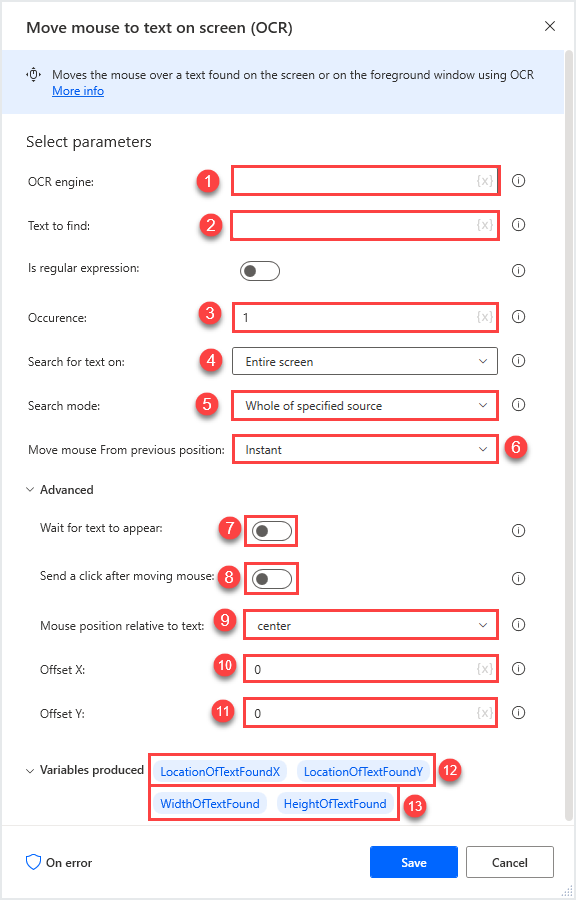
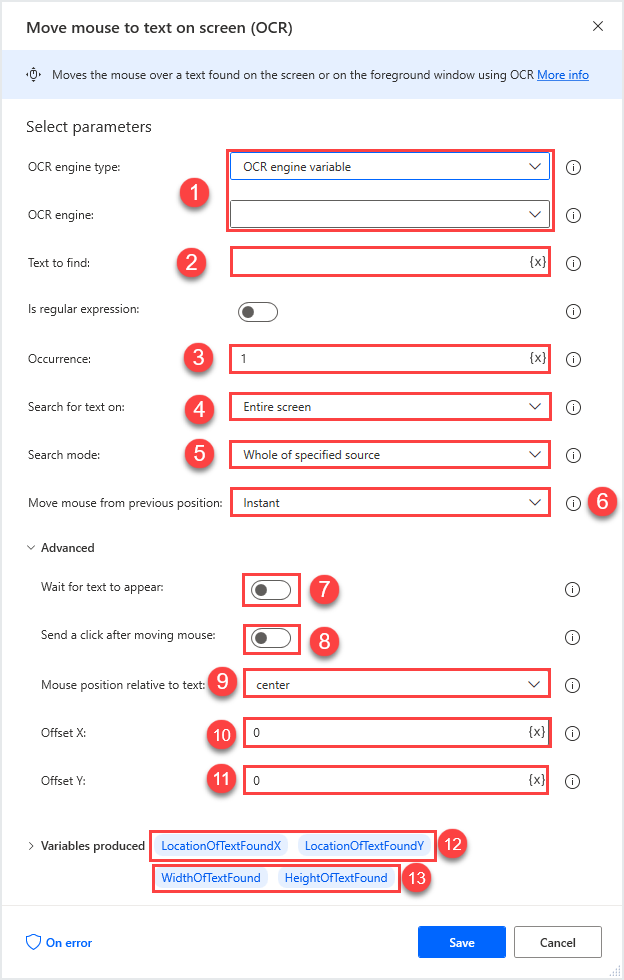
updated ocr section in mouse&keyboard

diff --git a/learn-bizapps-pr/flow/pad-mouse-keyboard/includes/2-mouse-keyboard-actions.md b/learn-bizapps-pr/flow/pad-mouse-keyboard/includes/2-mouse-keyboard-actions.md
@@ -28,9 +28,9 @@ Use this action to add multiple images. When an action includes multiple images,
 
    ![Screenshot of the Move Mouse to Image action properties dialog.](..\media\move-mouse-image-action-properties.png)
 
-Specify a string of text on the screen to move the cursor to with the **Move Mouse to Text onscreen**. The action moves the cursor to the text, even if it is stored as an image such as a jpg or pdf file. For this action, you must specify an optical character recognition (OCR) engine in the OCR action. The callouts in the following illustration show how to configure this action.
+Specify a string of text on the screen to move the cursor to with the **Move Mouse to Text onscreen**. The action moves the cursor to the text, even if it is stored as an image such as a jpg or pdf file. For this action, you must specify an optical character recognition (OCR) engine or an OCR engine variable. The callouts in the following illustration show how to configure this action.
 
-1. In the action properties, set the OCR engine variable created by the OCR action
+1. In the action properties, set the OCR engine type, or specify a previously created OCR engine variable
 1. Text to Find is a required input. Optionally enter a regular expression
 1. In case the text appears more than once on the screen, specify which occurrence of the text to move the cursor to
 1. Specify whether the action should search for the text on the entire screen, or only in the foreground window
